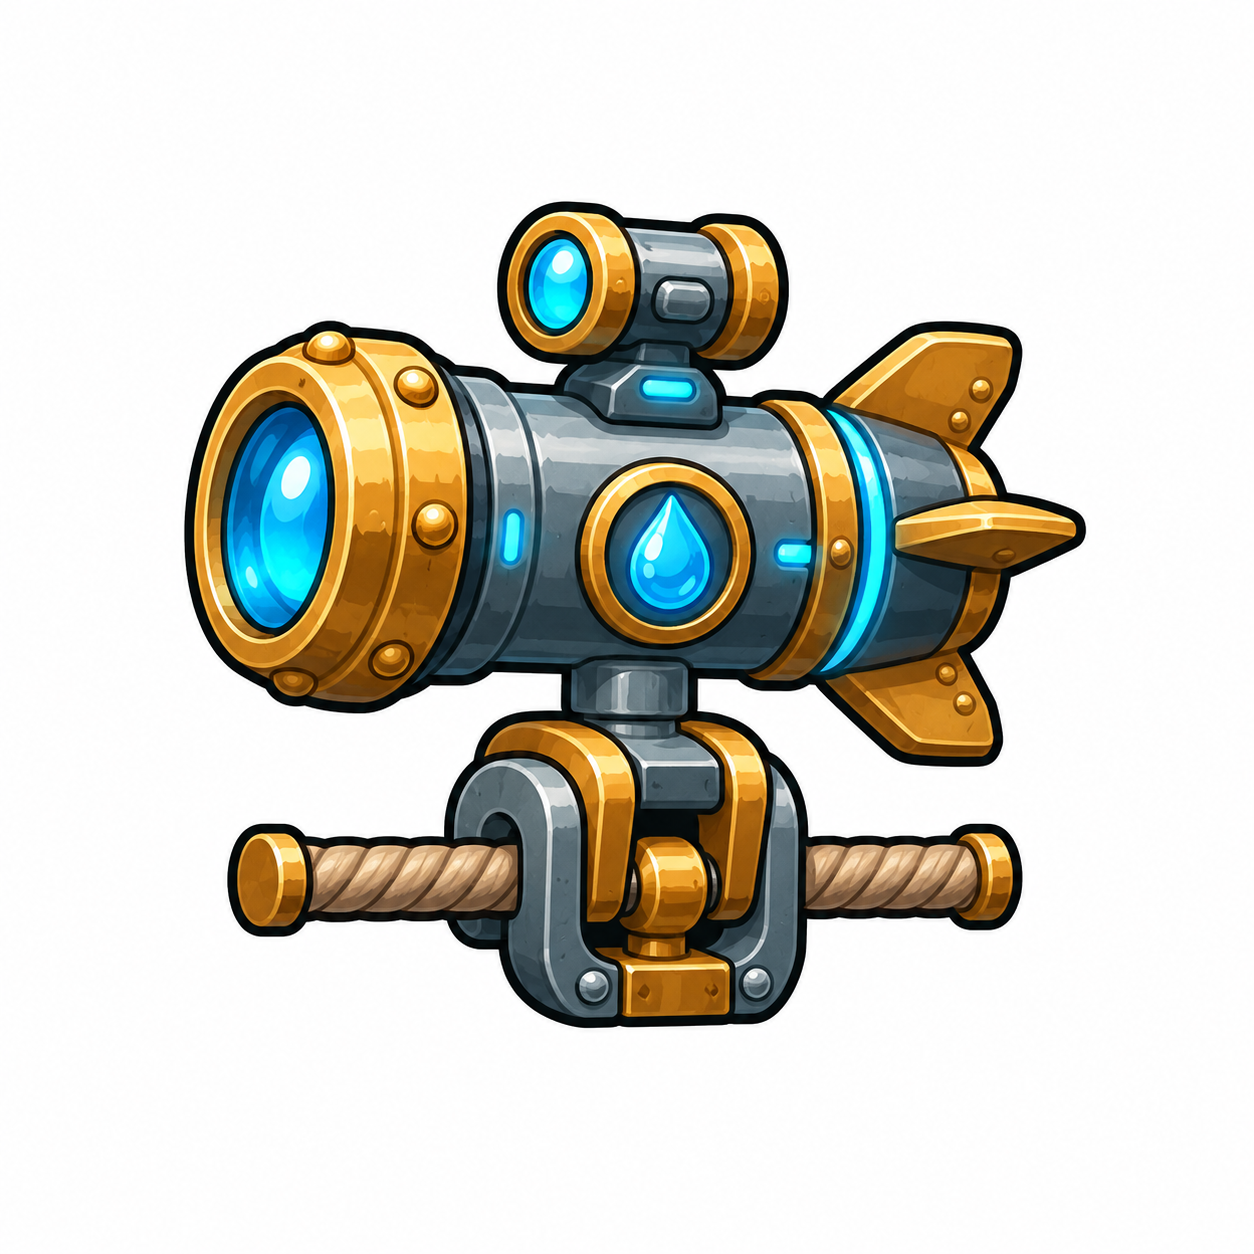
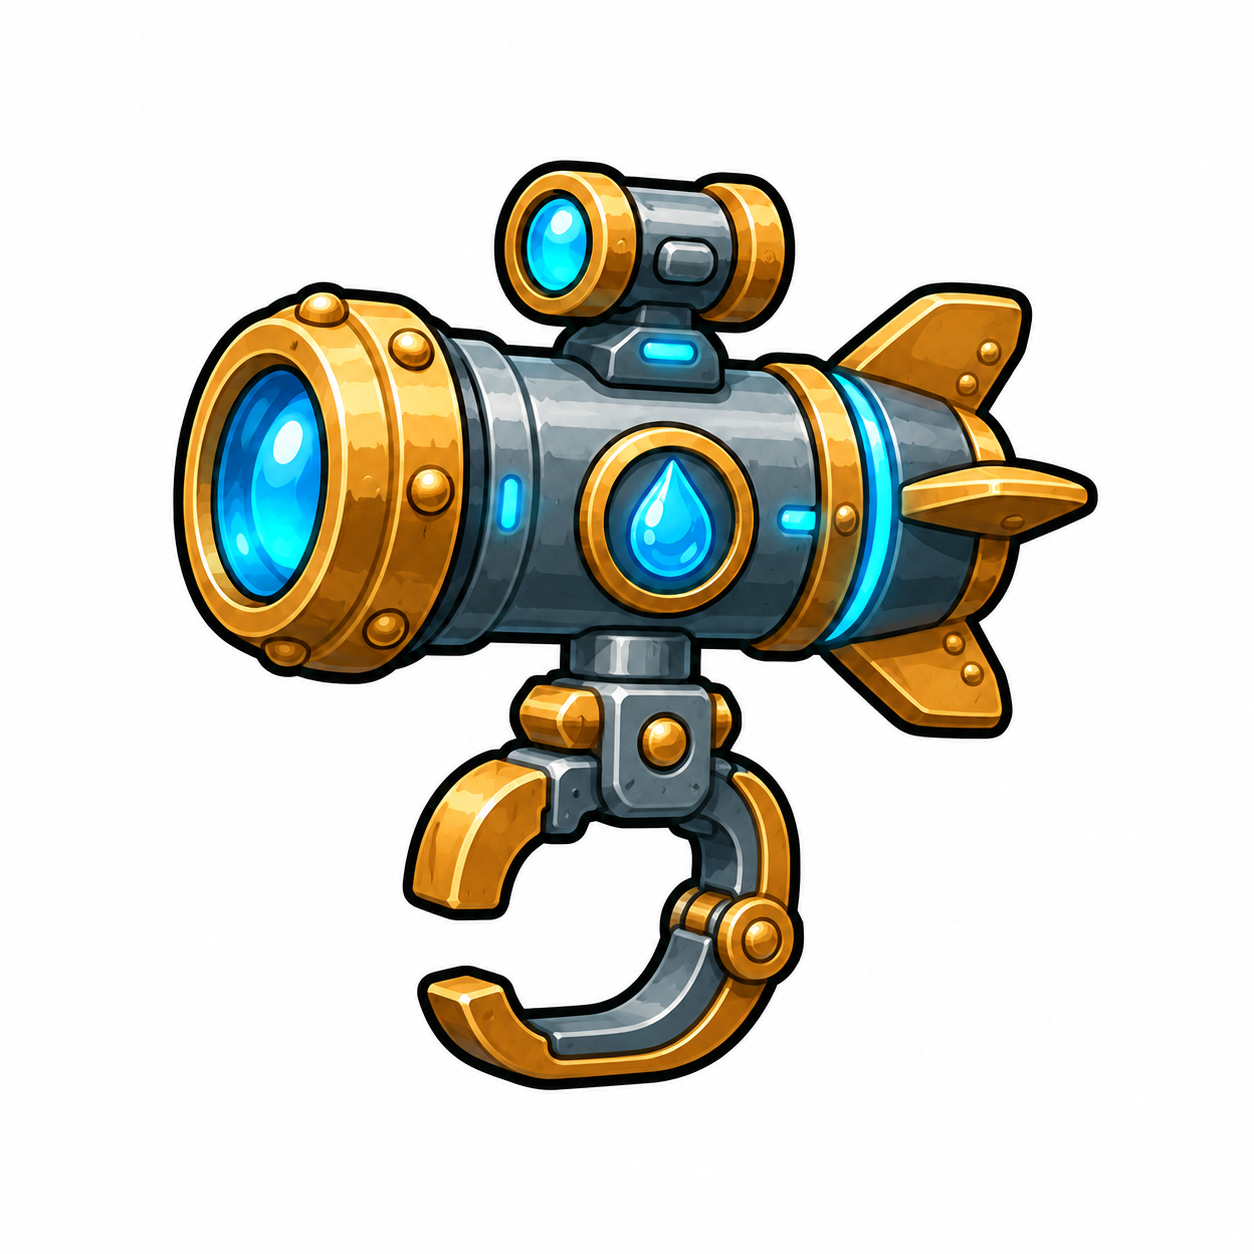
tweak: rakietnica - nowy asset (pusty zacisk), orientacja na zylce, pociski 2x wolniej (b79)
- rocket.png podmieniony (pusty C-zacisk, bez sznura)
- orientacja na zylce: obrot 90 (diob w dol) + offset tak, by zacisk siadl na zylce (hookX)
- ROCKET_FLIGHT 0.32->0.64 (config, wspoldzielone sim+render) = pociski 2x wolniejsze

45/45 testow.

diff --git a/src/render.js b/src/render.js
@@ -1,4 +1,4 @@
-import { WORLD, FISH_TYPES, BACKPACK, STARTER_HOOK, STAGES, ITEMS, RARITY, CAST_DUR, CAST_ANIM, ARENAS, ARENA_COUNT, STAGES_PER_ARENA, arenaOf, localOf, tackleboxOf } from './config.js';
+import { WORLD, FISH_TYPES, BACKPACK, STARTER_HOOK, STAGES, ITEMS, RARITY, CAST_DUR, CAST_ANIM, ROCKET_FLIGHT, ARENAS, ARENA_COUNT, STAGES_PER_ARENA, arenaOf, localOf, tackleboxOf } from './config.js';
 import { computeStars } from './logic/scoring.js';
 import { gridItems, itemOrigin } from './logic/backpack.js';
 
@@ -148,7 +148,7 @@ const CAT_CAST = 'assets/cat/cat-cast-sheet-6x1.png';
 let _homeFrame = 0;
 let _lineLagX = null; // wygładzona pozycja żyłki (podąża z opóźnieniem za hakiem → wygięcie)
 const SPRITE_SCALE = 2.8; // szerokość sprite ≈ radius * scale
-const BUILD = 'b78'; // znacznik wersji (sanity: czy przeglądarka ma świeży kod)
+const BUILD = 'b79'; // znacznik wersji (sanity: czy przeglądarka ma świeży kod)
 
 // Rysuje rybę: delikatny ruch w kodzie (kołysanie ogona/ciała = tilt) + PŁYNNE zawracanie
 // (scaleX `sx` przechodzi przez 0 zamiast skoku) + przyciemnienie z głębokością (dark 0..1).
@@ -1012,7 +1012,7 @@ function renderDescent(ctx, s, hookX, hookY) {
   const shotIm = keyedEdge(ROCKET_SHOT_SRC);
   for (const rk of s.rockets || []) {
     const f = rk.target; if (!f) continue;
-    const p = Math.min(1, rk.t / 0.32);
+    const p = Math.min(1, rk.t / ROCKET_FLIGHT);
     const x0 = rk.x, y0 = rk.y - camY, x1 = f.x, y1 = f.y - camY;
     const px = x0 + (x1 - x0) * p, py = y0 + (y1 - y0) * p;
     const a = Math.atan2(y1 - y0, x1 - x0); // sprite dziobem w prawo (0 rad) → rotacja = kąt lotu
@@ -1070,12 +1070,14 @@ function renderDescent(ctx, s, hookX, hookY) {
   // nakładały). Sprite flipowany dla lewej strony, by zacisk patrzył na żyłkę.
   const sideItems = gridItems(s.grid, ITEMS).filter(g => ITEMS[g.id] && ITEMS[g.id].mount === 'side');
   sideItems.forEach((it, i) => {
-    const aSize = hookH * 0.95, stepY = hookH * 0.95;
+    const aSize = hookH * 0.92, stepY = hookH * 0.95;
     const ay = eyeletY - hookH * 0.55 - i * stepY;     // stackowane w górę nad oczkiem
-    const ax = hookX + Math.sin(nowD * 1.6 + i) * 3;   // na żyłce + sway
+    const sway = Math.sin(nowD * 1.6 + i) * 3;
+    // obrót o 90° (dziób w dół, ku rybom) + przesunięcie tak, by ZACISK (po obrocie z lewej)
+    // siadł dokładnie na żyłce (hookX), a korpus wystawał w bok.
     ctx.save();
-    ctx.translate(ax, ay);
-    ctx.rotate(Math.PI / 2);                            // PIONOWO na żyłce (zacisk wzdłuż linii)
+    ctx.translate(hookX + sway + aSize * 0.30, ay);
+    ctx.rotate(Math.PI / 2);
     drawItemSpan(ctx, ITEMS[it.id], -aSize / 2, -aSize / 2, aSize, aSize, false);
     ctx.restore();
   });

diff --git a/src/sim.js b/src/sim.js
@@ -1,5 +1,5 @@
 // Czysta symulacja jednej klatki descentu (bez DOM). main.js woła to w pętli rAF.
-import { WORLD, FISH_TYPES, STAGES } from './config.js';
+import { WORLD, FISH_TYPES, STAGES, ROCKET_FLIGHT } from './config.js';
 import { difficultyAt } from './logic/ramp.js';
 import { createFish } from './logic/spawn.js';
 import { startLatch, tickLatch } from './logic/combat.js';
@@ -118,7 +118,7 @@ export function stepDescent(s, hookX, hookScreenY, dt, rng = Math.random) {
       if (s.rocketCd <= 0) { s.rockets.push({ target: tgt, x: hookX, y: hookWorldY, t: 0 }); s.rocketCd = s.hook.rocketInterval; }
     }
   }
-  const ROCKET_FLIGHT = 0.32; // s lotu pocisku zanim zada dmg
+  // ROCKET_FLIGHT (config): czas lotu pocisku zanim zada dmg
   for (let ri = s.rockets.length - 1; ri >= 0; ri--) {
     const rk = s.rockets[ri];
     rk.t += dt;

diff --git a/src/config.js b/src/config.js
@@ -102,6 +102,9 @@ export const TEST_ENDLESS_DESCENT = false;
 // hak można prowadzić po całym ekranie. Ustaw false, by wrócić do normalnego pasma ruchu.
 export const TEST_FREE_HOOK = true;
 
+// Czas lotu pocisku rakietnicy (s) — większy = wolniejszy pocisk. (2× wolniej: 0.32 → 0.64)
+export const ROCKET_FLIGHT = 0.64;
+
 // 3 archetypy: jedna oś = HP vs okno. scoreValue liczy się przy ogłuszeniu.
 export const FISH_TYPES = {
   // speed = pozioma prędkość pływania (px/s). Wyższa niż szybkoscOpadania, żeby